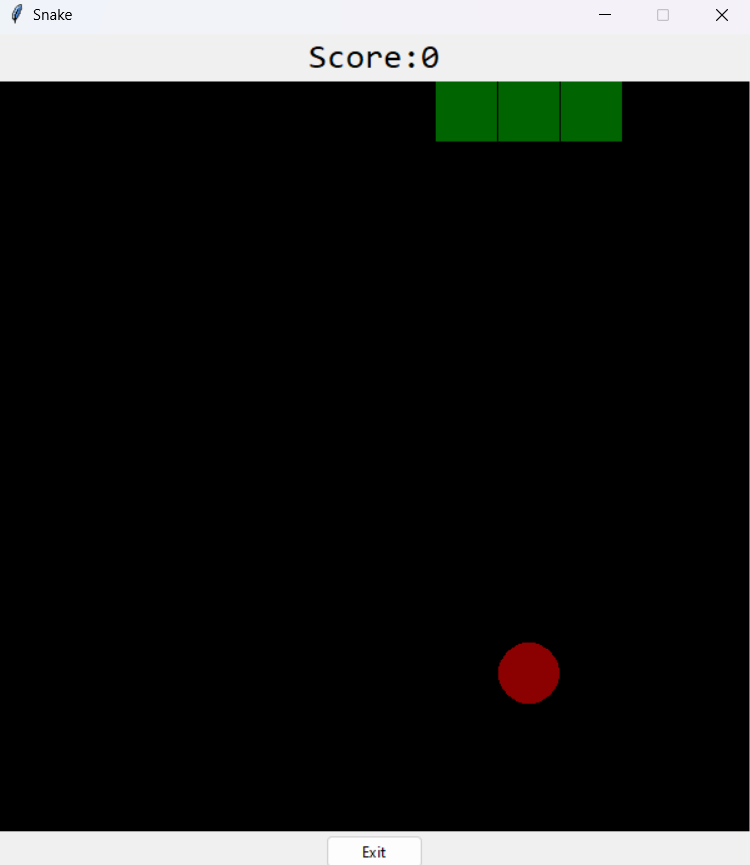
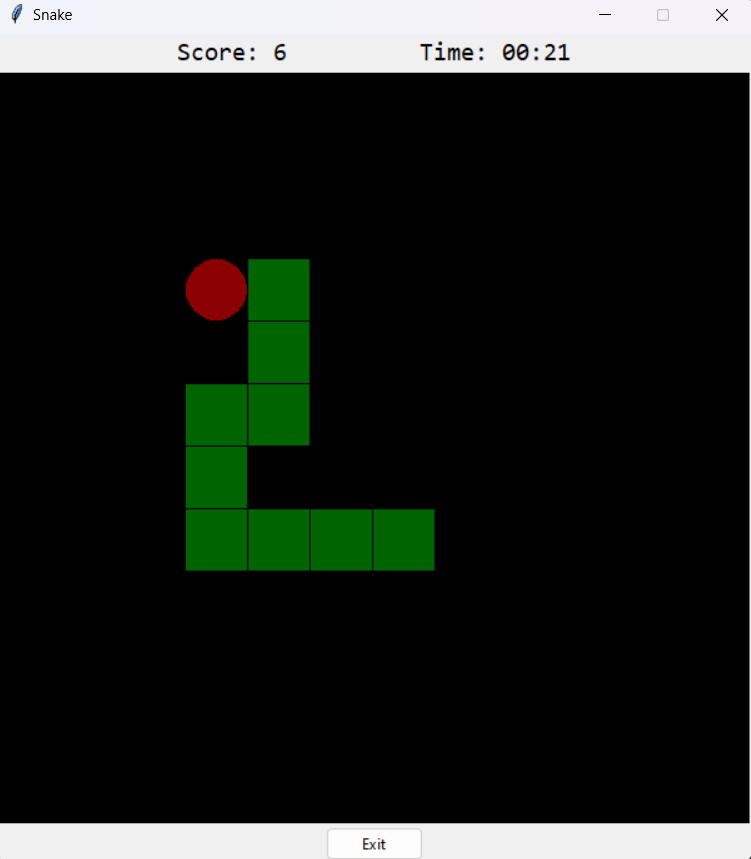
refactored the script to avoid redundance.

diff --git a/main.py b/main.py
@@ -4,18 +4,6 @@ import tkinter as tk
 from tkinter import ttk, Canvas
 from tkinter.constants import *
 
-# ------------------------
-# -- set up screen V
-# -- set snake and apple objects   V
-# -- set objects on the screen : apple and snake V
-# -- set movement direction event V
-# - wall limit and collision detection V
-# -- grow size snake when eating an apple V
-# -- win event
-# lost event V
-# start again V
-# time
-# -----------------------------
 
 class Game():
     def __init__(self):
@@ -28,72 +16,41 @@ class Game():
         self.FOOD_COLOR = "darkred"
         self.BACKGROUND_COLOR = "black"
 
-        self.SPEED = 120
+        self.SPEED = 200
         self.SPACE_SIZE = 50
         self.BODY_SIZE = 3
-
-        self.score = 0
-        self.direction = "right"
-        self.start_time = 0
-        self.game_time = 0
-
-        # use to check if games end, to stop the timer
-        self.is_game_over = False
 
         # set up the all screen
         self.window = tk.Tk()
         self.window.title('Snake')
         self.window.resizable(False, False)
         
-
         # Use grid for better control of placement
         self.top_frame = ttk.Frame(self.window)
         self.top_frame.pack(fill='x') 
+        self.top_frame.grid_columnconfigure(0, weight=1)
+        self.top_frame.grid_columnconfigure(1, weight=1)
 
         # Initialize score label
-        self.score_label = tk.Label(self.top_frame, text=f"Score: {self.score}", font=('consolas', 20))
+        self.score_label = tk.Label(self.top_frame, text=f"Score: 0", font=('consolas', 15))
         self.score_label.grid(row=0, column=0, sticky='e', padx=50)  # Align to the left with padding
 
         # Initialize time label
-        self.time_label = tk.Label(self.top_frame, text=f"Time: 00:00", font=('consolas', 20))
+        self.time_label = tk.Label(self.top_frame, text=f"Time: 00:00", font=('consolas', 15))
         self.time_label.grid(row=0, column=1, sticky='w', padx=50)  # Align to the right with padding
 
-        # Configure the frame to make sure the time is on the right
-        self.top_frame.grid_columnconfigure(0, weight=1)
-        self.top_frame.grid_columnconfigure(1, weight=1)
 
 
         # screen game set up
         self.screen_game = Canvas(self.window, bg=self.BACKGROUND_COLOR, width=self.GAME_WIDTH, height=self.GAME_HEIGHT)
         self.screen_game.pack()
         
-
         # create a start button to click, in the window before the game starts
-        self.start_button = tk.Button(self.window, text="Start", command=self.start_game,
-                                font=('consolas', 15, 'bold'),
-                                fg="blue",
-                                bg="lightblue",
-                                padx=10, pady=10,
-                                borderwidth=1,
-                                relief=RAISED,
-                                overrelief=GROOVE,
-                                activebackground="lightgray",
-                                )
+        self.start_button = self.create_button("Start", self.start_game)
         self.start_button.place(relx=0.5, rely=0.5, anchor=CENTER)
 
-
         # --- creating a restart button when game over---------------
-        self.restart_button = tk.Button(self.window, text="Play again", command= self.restart_game,
-                                font=('consolas', 15, 'bold'),
-                                fg="blue",
-                                bg="lightblue",
-                                padx=10, pady=10,
-                                borderwidth=1,
-                                relief=RAISED,
-                                overrelief=GROOVE,
-                                activebackground="lightgray",
-                                )
-
+        self.restart_button = self.create_button("Restart", self.restart_game)
 
         exit_button = ttk.Button(self.window,
                                 text='Exit',
@@ -103,9 +60,18 @@ class Game():
 
         self.center_window()
         self.bind_keys()
+        
 
-        self.snake = None
-        self.food = None
+    def create_button(self, text, command):
+        return tk.Button(self.window, text=text, command=command,
+                        font=('consolas', 15, 'bold'),
+                        fg="blue", bg="lightblue",
+                        padx=10, pady=10,
+                        borderwidth=1,
+                        relief=RAISED,
+                        overrelief=GROOVE,
+                        activebackground="lightgray",
+                        )
 
 
     def center_window(self):
@@ -130,29 +96,39 @@ class Game():
         self.window.bind('<Up>', lambda event: self.change_direction('up'))
         self.window.bind('<Down>', lambda event: self.change_direction('down'))
 
-
-    def start_game(self):
-        ''' instantiate game objects, such like the Food, Snake object, the score and time'''
-        self.start_button.place_forget()  # Hide the start button
+    
+    def initialise_game(self):
+        ''' instantiate/reset game objects, like Food, Snake, the score and time'''
+        self.screen_game.delete("all")
         self.snake = Snake(self)
         self.food = Food(self)
+        self.direction = "right"
+
         self.is_game_over = False
+
+        self.score = 0
+        self.score_label.config(text=f"Score: {self.score}")
+
         self.start_time = time.time()
-        self.update_timer()
+        self.timer()
+
+
+    def start_game(self):
+        self.start_button.place_forget()  # Hide the start button
+        self.initialise_game()
         self.next_turn()
 
 
-    def update_timer(self):
+    def timer(self):
         '''Update the timer display, stops when game is over.'''
         if not self.is_game_over:
-            self.game_time = int(time.time() - self.start_time)
-            minutes, seconds = divmod(self.game_time, 60)
-            self.time_label.config(text=f"Time: {minutes:02d}:{seconds:02d}")
-            self.window.after(1000, self.update_timer)
+            self.game_time = time.time() - self.start_time
+            formatted_time = time.strftime("%M:%S", time.gmtime(self.game_time))
+            self.time_label.config(text=f"Time: {formatted_time}")
+            self.window.after(1000, self.timer)
 
     
     def next_turn(self):
-
         x, y = self.snake.coordinates[0]
 
         if self.direction == "up":
@@ -187,7 +163,7 @@ class Game():
 
             # if collision it stops the game, otherwise goes to next turn.
             self.window.after(self.SPEED, self.next_turn)
-            self.update_timer()
+            self.timer()
 
 
     def check_collision(self):
@@ -234,26 +210,9 @@ class Game():
 
     def restart_game(self):
         self.restart_button.place_forget()
-        self.screen_game.delete("all")
+        # self.screen_game.delete("all")
         print("Restarting the game!")
-
-        # reset timer
-        self.start_time = time.time()
-        self.is_game_over = False
-
-        # Reset score
-        self.score = 0
-        self.score_label.config(text=f"Score: {self.score}")
-
-
-        # reset direction
-        self.direction = "right"
-
-        # Recreate the snake and food instances
-        self.snake = Snake(self)
-        self.food = Food(self)
-
-        self.update_timer()
+        self.initialise_game()
         self.next_turn()
 
 
@@ -288,7 +247,7 @@ class Food:
                 break
 
         self.coordinates = [x, y]
-        # food shape
+        # create the food shape to be on the canvas
         game.screen_game.create_oval(x, y, x + game.SPACE_SIZE, y + game.SPACE_SIZE, fill=game.FOOD_COLOR, tag="food")
 
 

diff --git a/README.md b/README.md
@@ -8,4 +8,4 @@ Building the classic snake game using (and learning Tkinter module).
 <img src="./screenshots/1.png" alt="some sample photos" width=400>
 <img src="./screenshots/2.png" alt="some sample photos" width=400>
 
-<img src="./screenshots/4.png" alt="some sample photos" width=400>
+<img src="./screenshots/3.png" alt="some sample photos" width=400>
